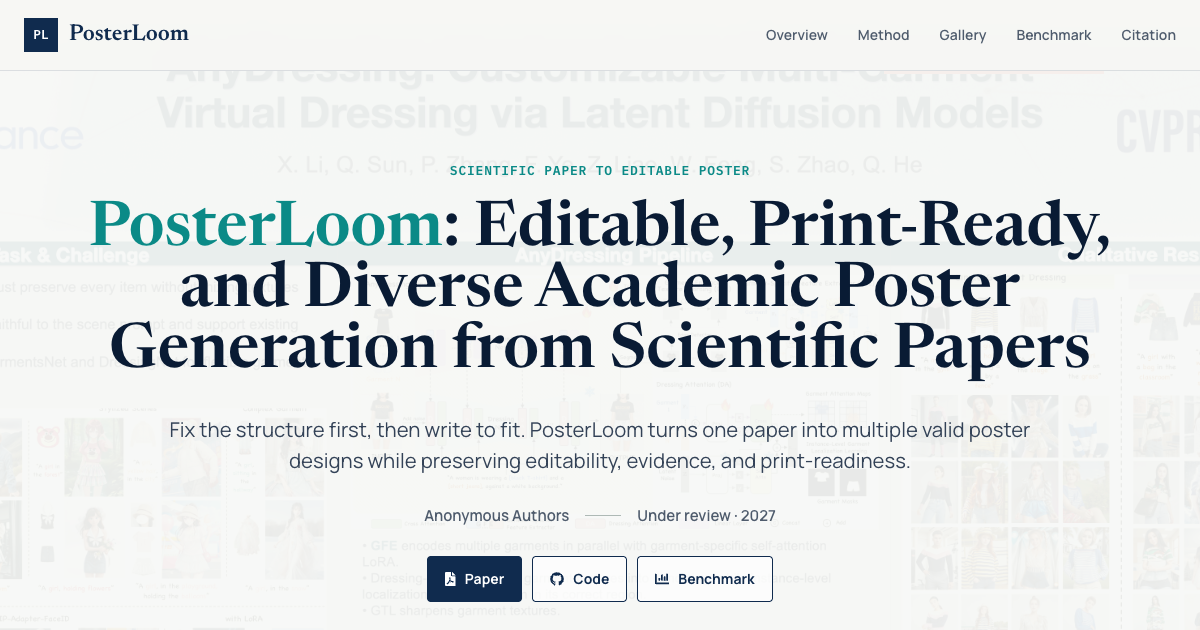
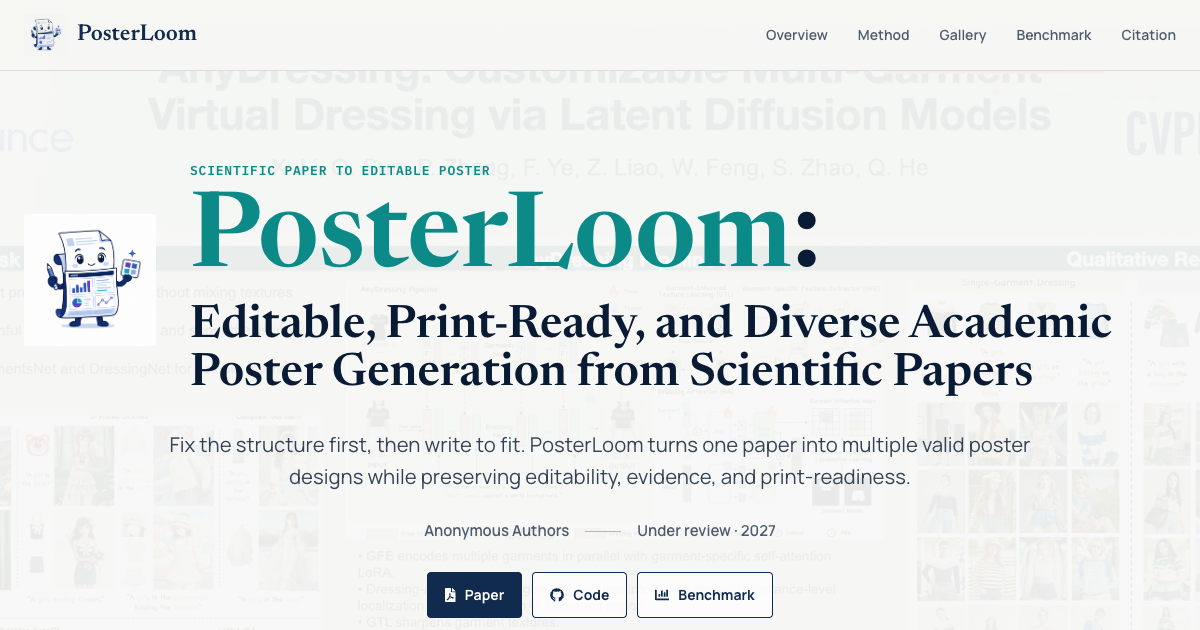
Refresh PosterLoom branding and poster diversity gallery

diff --git a/static/css/index.css b/static/css/index.css
@@ -73,15 +73,12 @@ button { letter-spacing: 0; }
   font-weight: 600;
 }
 .wordmark:hover { color: var(--navy); }
-.wordmark-mark {
-  width: 34px;
-  height: 34px;
-  display: grid;
-  place-items: center;
-  color: #fff;
-  background: var(--navy);
-  font-family: var(--mono);
-  font-size: 13px;
+.wordmark-logo {
+  width: 42px;
+  height: 42px;
+  flex: 0 0 42px;
+  object-fit: cover;
+  mix-blend-mode: multiply;
 }
 .nav-links { display: flex; align-items: center; gap: 30px; }
 .nav-links a {
@@ -139,10 +136,24 @@ button { letter-spacing: 0; }
 .hero-content {
   position: relative;
   z-index: 2;
-  width: min(1120px, 100%);
+  width: min(1160px, 100%);
   margin: 0 auto;
   text-align: center;
 }
+.hero-title-lockup {
+  display: grid;
+  grid-template-columns: 132px minmax(0, 1fr);
+  align-items: center;
+  gap: 34px;
+  text-align: left;
+}
+.hero-logo {
+  width: 132px;
+  height: 132px;
+  object-fit: contain;
+  mix-blend-mode: multiply;
+}
+.hero-title-copy { min-width: 0; }
 .eyebrow,
 .section-index {
   margin: 0 0 18px;
@@ -154,16 +165,27 @@ button { letter-spacing: 0; }
   text-transform: uppercase;
 }
 .project-hero h1 {
-  max-width: 1100px;
-  margin: 0 auto;
+  margin: 0;
   color: var(--navy-deep);
   font-family: var(--display);
-  font-size: clamp(48px, 5.2vw, 82px);
   font-weight: 600;
-  line-height: 0.98;
   letter-spacing: 0;
 }
-.project-hero h1 span { color: var(--teal); }
+.hero-project-name {
+  display: block;
+  color: var(--teal);
+  font-size: 104px;
+  line-height: 0.82;
+}
+.hero-project-name > span { color: var(--navy-deep); }
+.hero-paper-title {
+  display: block;
+  max-width: 940px;
+  margin-top: 18px;
+  color: var(--navy-deep);
+  font-size: 46px;
+  line-height: 1.04;
+}
 .hero-lede {
   max-width: 900px;
   margin: 30px auto 0;
@@ -283,7 +305,7 @@ button { letter-spacing: 0; }
   border-top: 1px solid var(--rule-dark);
   border-bottom: 1px solid var(--rule-dark);
 }
-.image-zoom img { width: 100%; transition: transform 260ms ease; }
+.image-zoom img { width: 100%; display: block; transition: transform 260ms ease; }
 .image-zoom:hover img { transform: scale(1.008); }
 .image-zoom > span {
   position: absolute;
@@ -318,10 +340,15 @@ figure figcaption { margin-top: 14px; color: var(--ink-soft); font-size: 13px; l
 .method-steps p { margin: 0; color: var(--ink-soft); font-size: 13px; line-height: 1.55; }
 
 .gallery-band { background: #eef3f1; }
-.variant-gallery { display: grid; grid-template-columns: repeat(3, 1fr); gap: 16px; }
+.variant-gallery {
+  display: grid;
+  grid-template-columns: 0.88fr 1.25fr 2fr;
+  align-items: center;
+  gap: 18px;
+}
 .variant-gallery figure,
 .poster-grid figure { margin: 0; background: var(--paper-bright); }
-.variant-gallery figure { border-top: 5px solid var(--teal); }
+.variant-gallery figure { min-width: 0; border-top: 5px solid var(--teal); }
 .variant-gallery figure:nth-child(2) { border-top-color: var(--coral); }
 .variant-gallery figure:nth-child(3) { border-top-color: var(--gold); }
 .variant-gallery figcaption {
@@ -477,6 +504,10 @@ figure figcaption { margin-top: 14px; color: var(--ink-soft); font-size: 13px; l
   .nav-links.open { display: flex; }
   .nav-links a { padding: 10px; }
   .project-hero { min-height: 0; padding-top: 135px; }
+  .hero-title-lockup { grid-template-columns: 108px minmax(0, 1fr); gap: 24px; }
+  .hero-logo { width: 108px; height: 108px; }
+  .hero-project-name { font-size: 82px; }
+  .hero-paper-title { margin-top: 14px; font-size: 38px; }
   .hero-stats { grid-template-columns: repeat(2, 1fr); }
   .hero-stats div:nth-child(3) { border-left: 0; border-top: 1px solid var(--rule-dark); }
   .hero-stats div:nth-child(4) { border-top: 1px solid var(--rule-dark); }
@@ -485,7 +516,8 @@ figure figcaption { margin-top: 14px; color: var(--ink-soft); font-size: 13px; l
   .contribution-strip, .method-steps { grid-template-columns: repeat(2, 1fr); }
   .contribution-strip article:nth-child(3) { border-left: 0; border-top: 1px solid var(--rule-dark); }
   .method-steps article:nth-child(3) { padding-left: 0; border-left: 0; }
-  .variant-gallery { grid-template-columns: 1fr; }
+  .variant-gallery { grid-template-columns: 0.88fr 1.25fr; }
+  .variant-gallery .wide-landscape { grid-column: 1 / -1; }
   .dataset-breakdown { grid-template-columns: repeat(3, 1fr); }
   .dataset-breakdown span:nth-child(4) { border-left: 0; border-top: 1px solid var(--rule-dark); }
   .dataset-breakdown span:nth-child(5) { border-top: 1px solid var(--rule-dark); }
@@ -496,7 +528,10 @@ figure figcaption { margin-top: 14px; color: var(--ink-soft); font-size: 13px; l
   .nav-inner { height: 62px; }
   .nav-links { top: 62px; }
   .project-hero { padding: 112px 18px 38px; background-position: 48% center; }
-  .project-hero h1 { font-size: 43px; line-height: 1.02; }
+  .hero-title-lockup { grid-template-columns: 1fr; justify-items: center; gap: 15px; text-align: center; }
+  .hero-logo { width: 96px; height: 96px; }
+  .hero-project-name { font-size: 62px; line-height: 0.88; }
+  .hero-paper-title { margin-top: 14px; font-size: 31px; line-height: 1.06; }
   .hero-lede { font-size: 17px; }
   .author-line { flex-direction: column; gap: 6px; }
   .author-line .separator { display: none; }
@@ -510,6 +545,10 @@ figure figcaption { margin-top: 14px; color: var(--ink-soft); font-size: 13px; l
   .abstract-grid { gap: 24px; }
   .lead-paragraph { font-size: 23px; }
   .contribution-strip, .method-steps, .poster-grid { grid-template-columns: 1fr; }
+  .variant-gallery { grid-template-columns: 1fr; }
+  .variant-gallery .wide-landscape { grid-column: auto; }
+  .variant-gallery .portrait-tall,
+  .variant-gallery .portrait-balanced { width: min(100%, 330px); justify-self: center; }
   .contribution-strip article + article { border-left: 0; border-top: 1px solid var(--rule-dark); }
   .method-steps article, .method-steps article + article { padding: 22px 0; border-left: 0; border-bottom: 1px solid var(--rule); }
   .case-heading { margin-top: 68px; }

diff --git a/index.html b/index.html
@@ -31,7 +31,7 @@
   <meta name="citation_pdf_url" content="https://jackey0903.github.io/PosterLoom/static/pdfs/posterloom.pdf">
 
   <title>PosterLoom | Scientific Papers to Editable Posters</title>
-  <link rel="icon" type="image/svg+xml" href="static/images/favicon.svg">
+  <link rel="icon" type="image/png" href="static/images/project/posterloom-logo.png">
   <link rel="preconnect" href="https://fonts.googleapis.com">
   <link rel="preconnect" href="https://fonts.gstatic.com" crossorigin>
   <link href="https://fonts.googleapis.com/css2?family=IBM+Plex+Mono:wght@500;600&family=Manrope:wght@400;500;600;700&family=Newsreader:opsz,wght@6..72,500;6..72,600&display=swap" rel="stylesheet">
@@ -59,7 +59,7 @@
   <nav class="site-nav" aria-label="Primary navigation">
     <div class="nav-inner">
       <a class="wordmark" href="#top" aria-label="PosterLoom home">
-        <span class="wordmark-mark">PL</span>
+        <img class="wordmark-logo" src="static/images/project/posterloom-logo.png" alt="" width="42" height="42">
         <span>PosterLoom</span>
       </a>
       <button class="nav-toggle" type="button" aria-label="Open navigation" aria-expanded="false">
@@ -79,8 +79,16 @@
     <header class="project-hero" id="top">
       <div class="hero-wash" aria-hidden="true"></div>
       <div class="hero-content reveal">
-        <p class="eyebrow">Scientific paper to editable poster</p>
-        <h1><span>PosterLoom</span>: Editable, Print-Ready, and Diverse Academic Poster Generation from Scientific Papers</h1>
+        <div class="hero-title-lockup">
+          <img class="hero-logo" src="static/images/project/posterloom-logo.png" alt="PosterLoom paper mascot" width="283" height="283">
+          <div class="hero-title-copy">
+            <p class="eyebrow">Scientific paper to editable poster</p>
+            <h1>
+              <span class="hero-project-name">PosterLoom<span aria-hidden="true">:</span></span>
+              <span class="hero-paper-title">Editable, Print-Ready, and Diverse Academic Poster Generation from Scientific Papers</span>
+            </h1>
+          </div>
+        </div>
         <p class="hero-lede">Fix the structure first, then write to fit. PosterLoom turns one paper into multiple valid poster designs while preserving editability, evidence, and print-readiness.</p>
         <div class="author-line">
           <span>Anonymous Authors</span>
@@ -146,7 +154,7 @@
         </div>
         <figure class="figure-stage reveal">
           <button class="image-zoom" type="button" data-image="static/images/project/framework.png" aria-label="Open the PosterLoom framework figure">
-            <img src="static/images/project/framework.png" alt="PosterLoom pipeline from paper inputs and controls through templates, reusable skills, composition, reflection, and diverse outputs" width="5906" height="3544">
+            <img src="static/images/project/framework.png" alt="PosterLoom framework from paper inputs and user controls through reusable skills, agent composition, VLM reflection, and diverse editable outputs" width="4150" height="2002">
             <span><i class="fas fa-expand" aria-hidden="true"></i> Expand figure</span>
           </button>
           <figcaption>PosterLoom coordinates four specialized agents with six reusable skills. Failed drafts are repaired through rewrite, reflow, or rerender actions; accepted drafts become editable PPTX files with consistent PNG renders.</figcaption>
@@ -170,23 +178,23 @@
         </div>
 
         <div class="variant-gallery reveal">
-          <figure>
-            <button class="image-zoom" type="button" data-image="static/images/project/variant_three_column.png" aria-label="Open three-column poster variant">
-              <img src="static/images/project/variant_three_column.png" alt="Three-column PosterLoom poster variant" loading="lazy">
+          <figure class="variant-card portrait-tall">
+            <button class="image-zoom" type="button" data-image="static/images/project/hags-editorial-portrait.png" aria-label="Open editorial portrait HAGS poster">
+              <img src="static/images/project/hags-editorial-portrait.png" alt="Editorial portrait poster for Active Geospatial Search" loading="lazy" width="1024" height="2048">
             </button>
-            <figcaption><strong>Three-column</strong><span>Balanced reading rhythm</span></figcaption>
+            <figcaption><strong>Editorial portrait</strong><span>Teal · visual-led</span></figcaption>
           </figure>
-          <figure>
-            <button class="image-zoom" type="button" data-image="static/images/project/variant_two_plus_one.png" aria-label="Open two-plus-one poster variant">
-              <img src="static/images/project/variant_two_plus_one.png" alt="Two-plus-one PosterLoom poster variant" loading="lazy">
+          <figure class="variant-card portrait-balanced">
+            <button class="image-zoom" type="button" data-image="static/images/project/hags-analytical-portrait.png" aria-label="Open analytical portrait HAGS poster">
+              <img src="static/images/project/hags-analytical-portrait.png" alt="Analytical portrait poster for Active Geospatial Search" loading="lazy" width="905" height="1280">
             </button>
-            <figcaption><strong>Two + one</strong><span>Evidence-led emphasis</span></figcaption>
+            <figcaption><strong>Analytical portrait</strong><span>Navy · result-led</span></figcaption>
           </figure>
-          <figure>
-            <button class="image-zoom" type="button" data-image="static/images/project/variant_one_plus_two.png" aria-label="Open one-plus-two poster variant">
-              <img src="static/images/project/variant_one_plus_two.png" alt="One-plus-two PosterLoom poster variant" loading="lazy">
+          <figure class="variant-card wide-landscape">
+            <button class="image-zoom" type="button" data-image="static/images/project/hags-wide-landscape.png" aria-label="Open wide landscape HAGS poster">
+              <img src="static/images/project/hags-wide-landscape.png" alt="Wide landscape poster for Active Geospatial Search" loading="lazy" width="1280" height="644">
             </button>
-            <figcaption><strong>One + two</strong><span>Method-led narrative</span></figcaption>
+            <figcaption><strong>Wide landscape</strong><span>Blue · dense evidence</span></figcaption>
           </figure>
         </div>
 